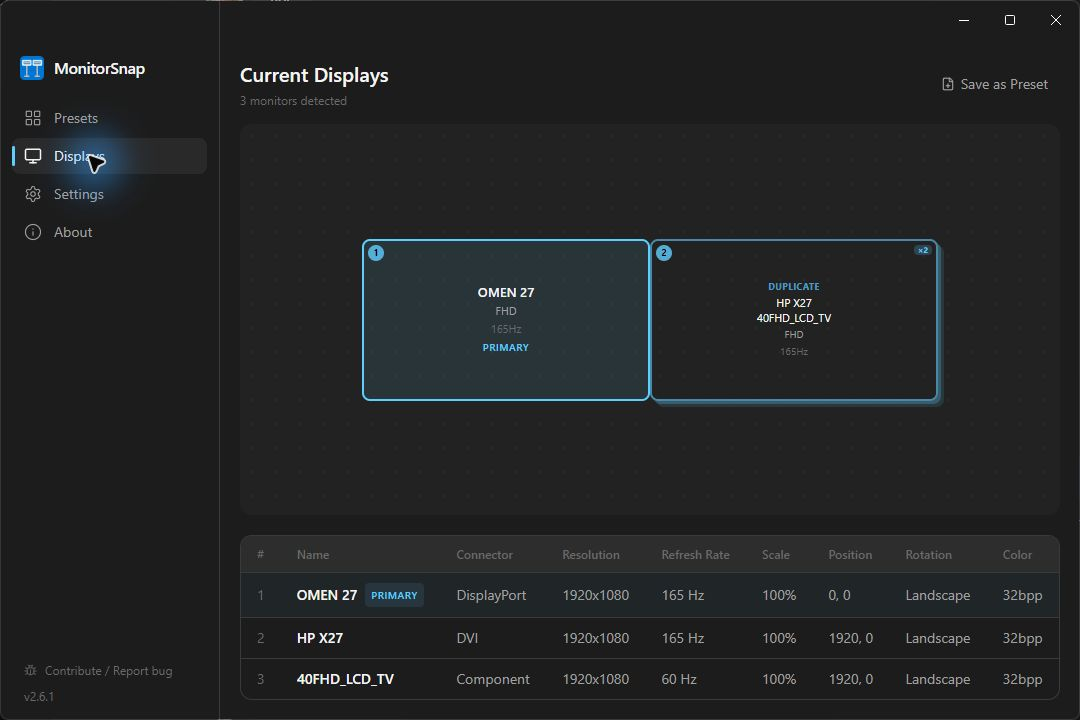
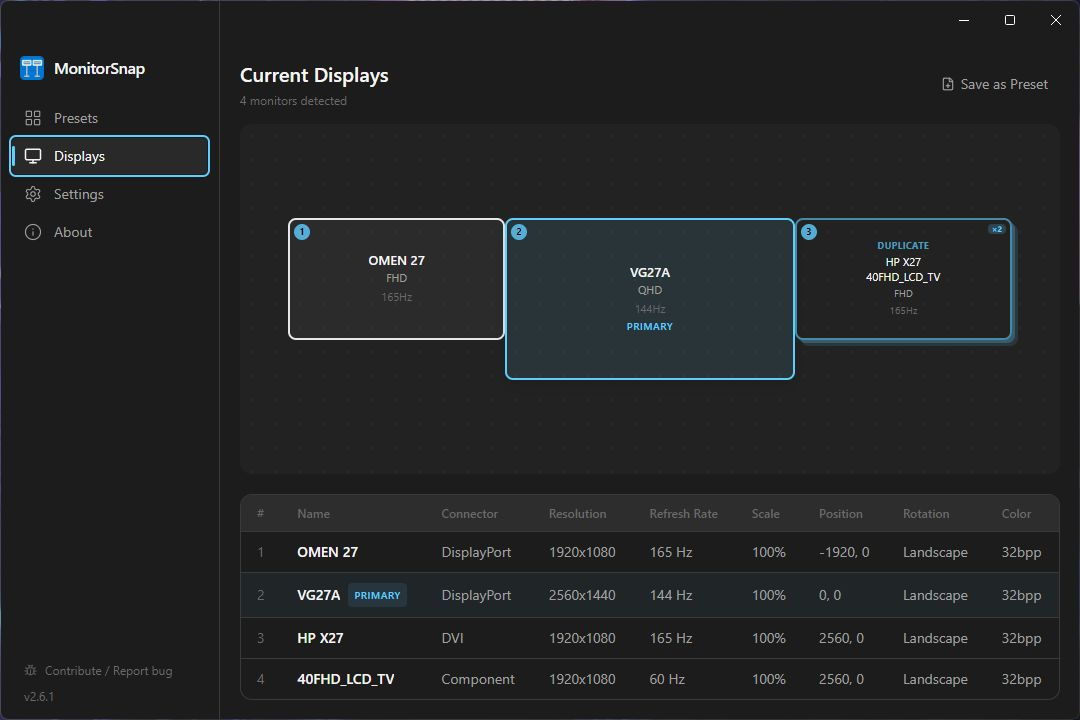
docs: refresh cursor-free screenshots with four displays and example presets

diff --git a/README.md b/README.md
@@ -15,7 +15,7 @@ Made for KVM switches, docking stations, and multi-monitor desks.
 
 [Download for Windows](https://github.com/GTRows/MonitorSnap/releases/latest) · [Getting started](#getting-started) · [Report a bug](https://github.com/GTRows/MonitorSnap/issues) · [Contribute](CONTRIBUTING.md)
 
-<img src="docs/screenshots/presets.png" alt="MonitorSnap showing a saved three-monitor desk setup, its display layout, monitor details, and a global hotkey" width="1080" />
+<img src="docs/screenshots/presets.png" alt="MonitorSnap showing three example presets and a saved four-display desk setup with a QHD primary monitor and a global hotkey" width="1080" />
 
 Free and open source. MIT licensed. No account required.
 
@@ -75,15 +75,13 @@ In **Settings**, enable **Start with Windows** and **Start minimized** if you wa
 
 The **Displays** page shows the current layout, primary screen, resolutions, refresh rates, scale, and positions. Mirrored displays appear together in the canvas.
 
-<img src="docs/screenshots/displays.png" alt="Current Displays page with a primary monitor and two mirrored displays, plus a table of detected display properties" width="1080" />
+<img src="docs/screenshots/displays.png" alt="Current Displays page showing four connected displays, including a QHD primary monitor, a side monitor, and two mirrored displays" width="1080" />
 
-The screenshots show a real three-monitor configuration: one primary display and two mirrored displays.
+The screenshots show four connected displays: a QHD primary monitor, a side monitor, and two mirrored displays. The preset list includes example layouts for work, an extended workspace, and presentations.
 
 ## Make it fit your workflow
 
 Choose a light, dark, or system theme; control startup and minimize behavior; adjust text size; and export or import presets from **Settings**.
-
-<img src="docs/screenshots/settings.png" alt="Settings page showing theme, startup, minimize behavior, and notification preferences" width="1080" />
 
 **Layout editing is experimental.** To try the drag editor, enable **Settings > Beta Features > Edit preset layouts**. It adds editing controls to presets and the Displays page. For everyday use, configure displays in Windows and capture the result as a preset.
 

diff --git a/docs/screenshots/README.md b/docs/screenshots/README.md
@@ -3,13 +3,18 @@
 Captured from MonitorSnap v2.6.1 on Windows on November 2, 2026, at the default
 1080 x 720 window size, using a separate temporary data directory.
 
-- `presets.png`: a real saved three-monitor configuration and its global hotkey.
+- `presets.png`: three example presets, with the current four-display Work desk
+  configuration selected and its global hotkey visible.
 - `displays.png`: the current display layout and detected monitor properties.
-- `settings.png`: theme, startup, behavior, and notification preferences.
 
-The hardware layout has one primary display and two mirrored displays. These are
-application captures, not mockups. No display configuration was applied to stage
-the screenshots. Personal presets and settings were not used.
+The hardware layout has a QHD primary display, a side display, and two mirrored
+displays. These are application captures, not mockups. The pointer was outside
+the captured window. Only Presets and Displays are included in the README.
+
+Work desk captures the actual current configuration. All extended and
+Presentation are saved example arrangements based on the same connected
+hardware; they were not applied or hardware-tested. No display configuration
+was applied to stage the screenshots. Personal presets and settings were not used.
 
 When replacing screenshots, capture the actual app, keep private data out of
 view, and update the README alt text if the displayed configuration changes.
